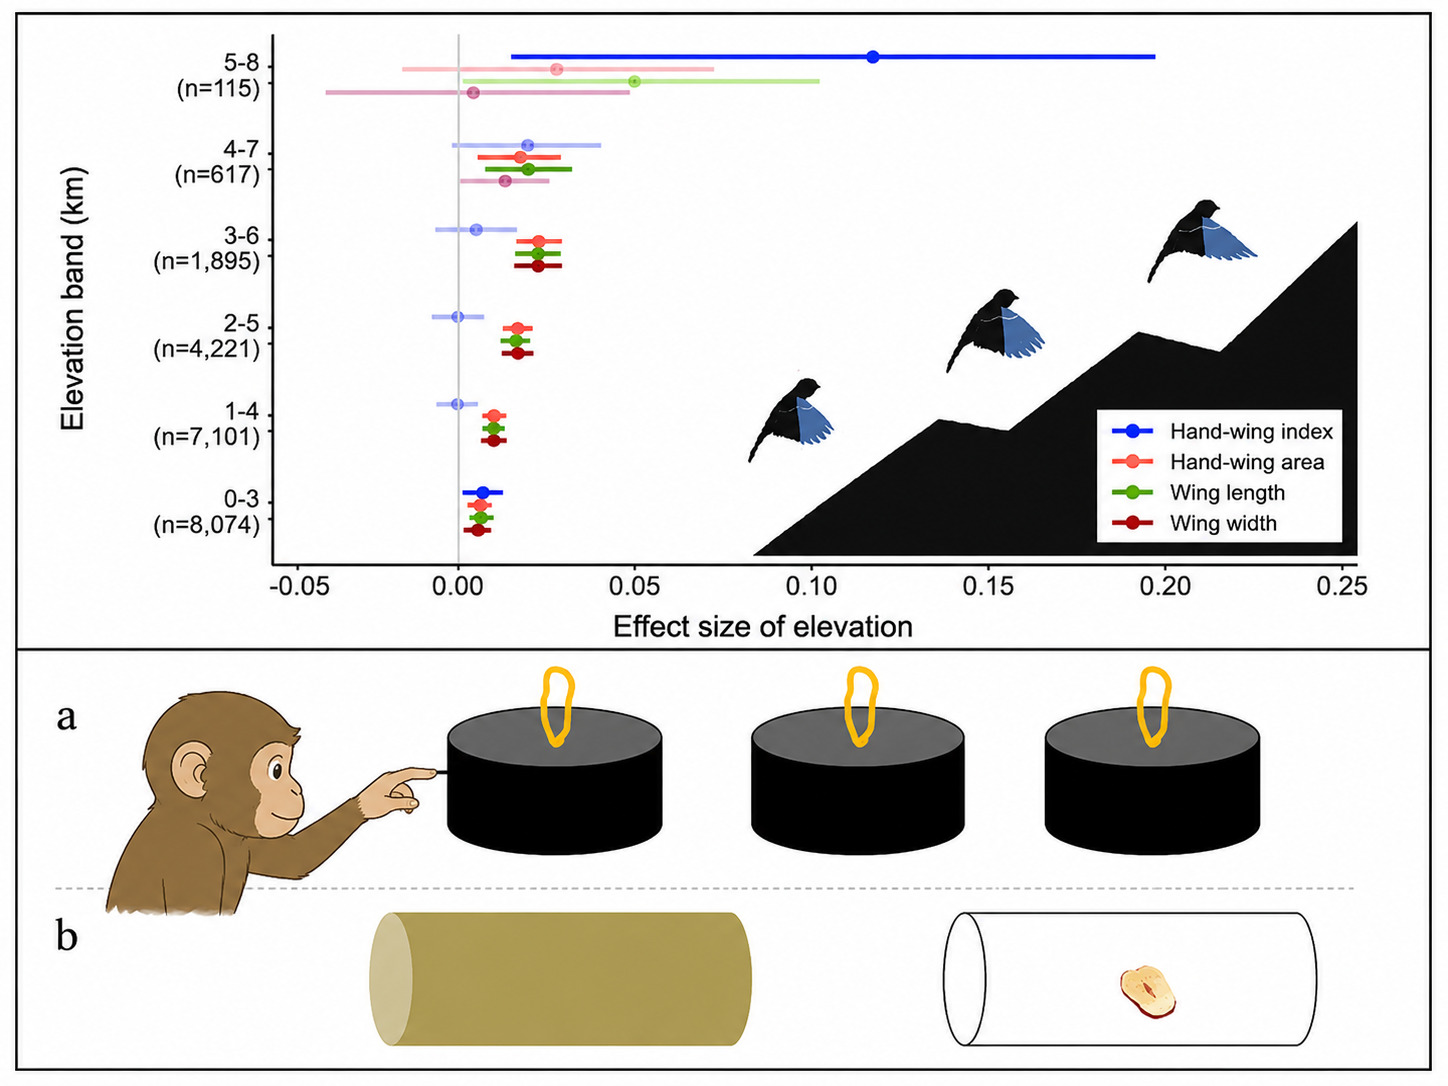
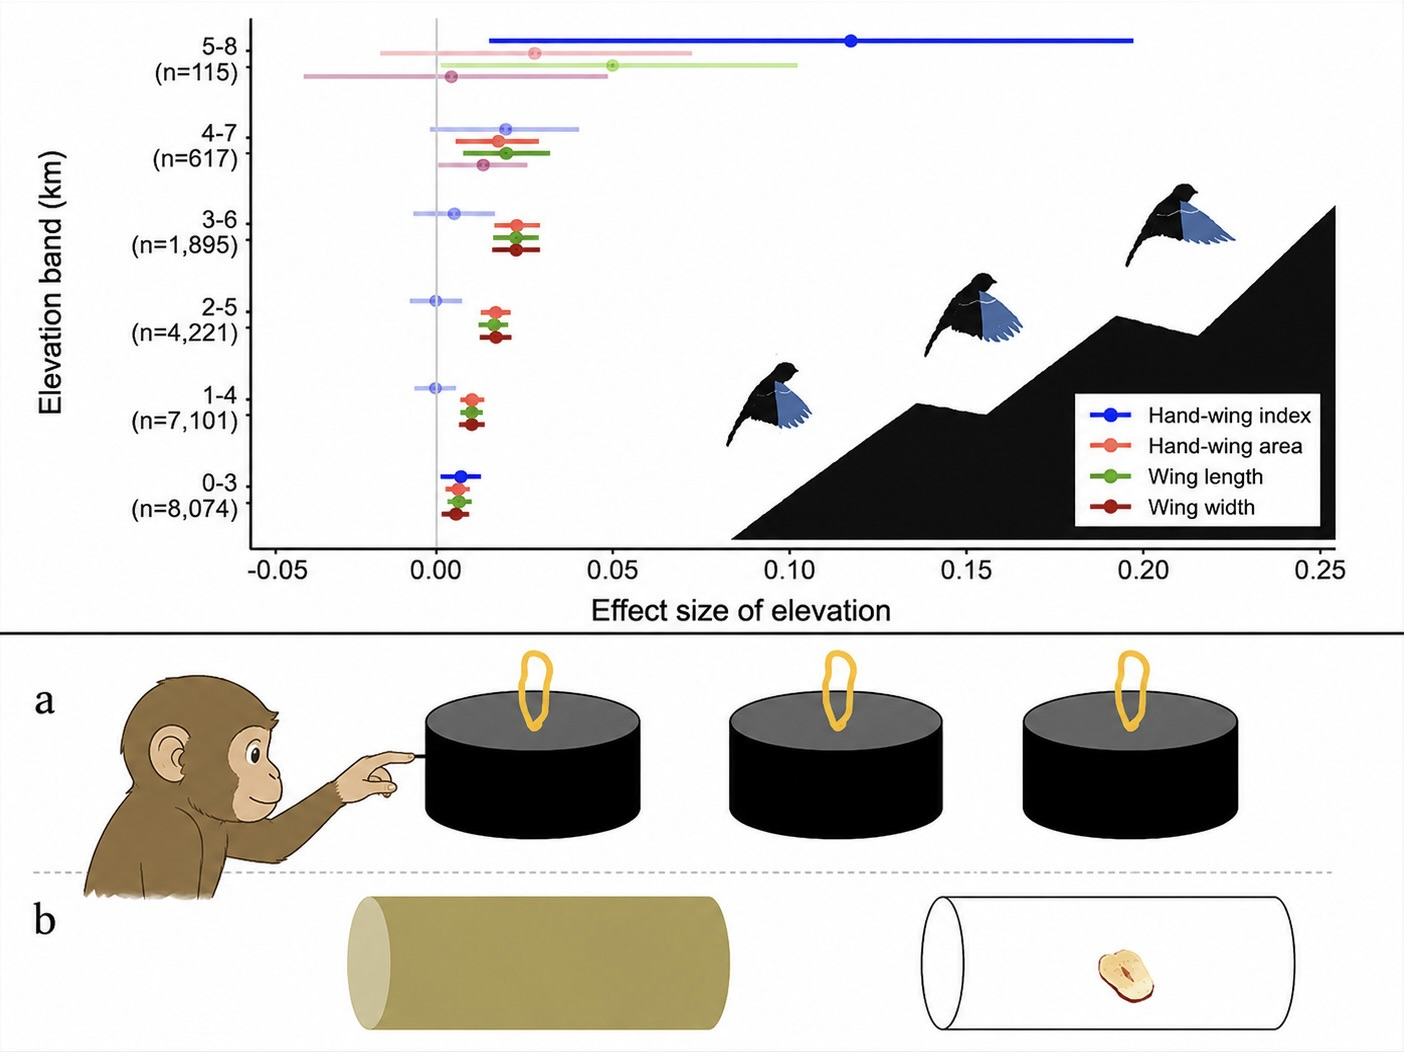
Update

diff --git a/research.html b/research.html
@@ -180,6 +180,16 @@
       padding: 0 2.5rem 6rem;
     }
     .topic-detail.active { display: block; }
+    .back-btn-wrap {
+      position: sticky;
+      top: var(--nav-h);
+      z-index: 50;
+      background: rgba(245,241,235,0.92);
+      backdrop-filter: blur(10px);
+      border-bottom: 0.5px solid var(--border);
+      margin: 0 -2.5rem 2.5rem;
+      padding: 0.75rem 2.5rem;
+    }
     .back-btn {
       display: inline-flex;
       align-items: center;
@@ -189,7 +199,6 @@
       text-transform: uppercase;
       color: var(--muted);
       text-decoration: none;
-      margin-bottom: 2.5rem;
       cursor: pointer;
       background: none;
       border: none;
@@ -266,12 +275,13 @@
     @media (max-width: 640px) {
       nav { padding: 0 1.2rem; }
       .nav-name { font-size: 0.72rem; }
-      .nav-links { gap: 1rem; }
-      .nav-links a { font-size: 0.75rem; }
+      .nav-links { gap: 0.7rem; }
+      .nav-links a { font-size: 0.6rem; }
       .page-header { padding: calc(var(--nav-h) + 2.5rem) 1.2rem 2rem; }
       .page-header h1 { font-size: 2rem; }
       .research-grid { grid-template-columns: 1fr; padding: 2.5rem 1.2rem 4rem; gap: 1.2rem; }
       .topic-detail { padding: 0 1.2rem 4rem; }
+      .back-btn-wrap { margin: 0 -1.2rem 2rem; padding: 0.65rem 1.2rem; }
     }
   </style>
 </head>
@@ -347,7 +357,9 @@
   <!-- TOPIC DETAILS -->
 
   <section class="topic-detail" id="topic-crossscale">
-    <button class="back-btn" onclick="closeTopic()">← Back to Research</button>
+    <div class="back-btn-wrap">
+      <button class="back-btn" onclick="closeTopic()">← Back to Research</button>
+    </div>
     <h2>Cross-Scale Resilience</h2>
     <img class="topic-detail-img" src="images/research_crossscale.jpg" alt="Cross-Scale Resilience">
     <p>My doctoral research centres on a deceptively simple question: what makes ecological systems resilient, and does the answer change depending on the scale at which we look? I am interested in how resilience — the capacity of a system to absorb disturbance and reorganise — manifests differently at the level of individual organisms, populations, and communities.</p>
@@ -362,7 +374,9 @@
   </section>
 
   <section class="topic-detail" id="topic-demography">
-    <button class="back-btn" onclick="closeTopic()">← Back to Research</button>
+    <div class="back-btn-wrap">
+      <button class="back-btn" onclick="closeTopic()">← Back to Research</button>
+    </div>
     <h2>Population Demography</h2>
     <img class="topic-detail-img" src="images/research_demography.jpg" alt="Population Demography">
     <p>Demography is the language in which populations tell their stories. Survival, growth, reproduction — these vital rates, structured by age or stage, determine whether a population grows, shrinks, or persists in the face of environmental change.</p>
@@ -378,7 +392,9 @@
   </section>
 
   <section class="topic-detail" id="topic-evolution">
-    <button class="back-btn" onclick="closeTopic()">← Back to Research</button>
+    <div class="back-btn-wrap">
+      <button class="back-btn" onclick="closeTopic()">← Back to Research</button>
+    </div>
     <h2>Evolutionary History</h2>
     <img class="topic-detail-img" src="images/research_evolution.jpg" alt="Evolutionary History">
     <p>Conservation biology has long grappled with the question of how to prioritise species for protection. Evolutionary distinctiveness — the amount of unique evolutionary history a species represents — has emerged as a compelling criterion, yet most priority frameworks treat it in isolation from how populations are actually faring in the wild.</p>
@@ -393,7 +409,9 @@
   </section>
 
   <section class="topic-detail" id="topic-others">
-    <button class="back-btn" onclick="closeTopic()">← Back to Research</button>
+    <div class="back-btn-wrap">
+      <button class="back-btn" onclick="closeTopic()">← Back to Research</button>
+    </div>
     <h2>Other Interests</h2>
     <img class="topic-detail-img" src="images/research_others.jpg" alt="Other Interests">
     <p>My research path has been deliberately broad. Before settling into macroecology and demography, I worked on projects spanning animal cognition, behavioural ecology, plant population genetics, and the effects of artificial light at night on decomposer communities.</p>
@@ -402,7 +420,7 @@
     <div class="reading-section">
       <p class="reading-label">Recommended Reading</p>
       <ul class="reading-list">
-        <li>Yang, J., Yang, C., <strong>Lin, H. W.</strong>, Lees, A. C., &amp; Tobias, J. A. (2025). Elevational constraints on flight efficiency shape global gradients in avian wing morphology. <em>Current Biology</em>, 35(8), 1890–1900.</li>
+        <li>Yang, J., Yang, C., <strong>Lin, H.</strong>, Lees, A. C., &amp; Tobias, J. A. (2025). Elevational constraints on flight efficiency shape global gradients in avian wing morphology. <em>Current Biology</em>, 35(8), 1890–1900.</li>
         <li>Wang, L., Luo, Y., <strong>Lin, H.</strong>, Xu, N., Gu, Y., Bu, H., ... &amp; Li, Z. (2023). Performance on inhibitory tasks does not relate to handedness in several small groups of Callitrichids. <em>Animal Cognition</em>, 26(2), 415–423.</li>
         <li>Wang, L., Luo, Y., Xu, N., <strong>Lin, H.</strong>, Yu, F., Huang, C., &amp; Li, Z. (2022). Signs of claw asymmetry appear in a homochelate crab. <em>Applied Animal Behaviour Science</em>, 246, 105537.</li>
       </ul>

diff --git a/index.html b/index.html
@@ -422,7 +422,7 @@
       nav { padding: 0 1.2rem; }
       .nav-name { font-size: 0.72rem; }
       .nav-links { gap: 1rem; }
-      .nav-links a { font-size: 0.75rem; }
+      .nav-links a { font-size: 0.6rem; }
     }
   </style>
 </head>
@@ -526,8 +526,8 @@
         <svg viewBox="0 0 24 24" xmlns="http://www.w3.org/2000/svg"><path d="M12 0C5.372 0 0 5.372 0 12s5.372 12 12 12 12-5.372 12-12S18.628 0 12 0zM7.369 4.378c.525 0 .947.431.947.947s-.422.947-.947.947a.95.95 0 0 1-.947-.947c0-.525.422-.947.947-.947zm-.722 3.038h1.444v10.041H6.647V7.416zm3.562 0h3.9c3.712 0 5.344 2.653 5.344 5.025 0 2.578-2.016 5.016-5.325 5.016h-3.919V7.416zm1.444 1.303v7.444h2.297c3.272 0 3.872-2.412 3.872-3.722 0-2.016-1.284-3.722-3.872-3.722h-2.297z"/></svg>
       </a>
       <!-- ResearchGate -->
-      <a class="social-icon-link" href="https://www.researchgate.net/profile/Hung-Wei-Lin-4" target="_blank" rel="noopener" title="ResearchGate" style="overflow:hidden;padding:0;">
-        <img src="images/rg_logo.png" alt="ResearchGate" style="width:36px;height:36px;object-fit:cover;display:block;">
+      <a class="social-icon-link" href="https://www.researchgate.net/profile/Hung-Wei-Lin-4" target="_blank" rel="noopener" title="ResearchGate">
+        <svg viewBox="0 0 24 24" xmlns="http://www.w3.org/2000/svg"><text y="17" font-size="13" font-family="Georgia,serif" font-weight="bold" fill="currentColor">RG</text></svg>
       </a>
       <!-- GitHub -->
       <a class="social-icon-link" href="https://github.com/homewaylin666" target="_blank" rel="noopener" title="GitHub">

diff --git a/cv.html b/cv.html
@@ -204,7 +204,7 @@
     @media (max-width: 640px) {
       nav { padding: 0 1.2rem; }
       .nav-name { font-size: 0.72rem; }
-      .nav-links { gap: 1.2rem; }
+      .nav-links { gap: 0.9rem; }
       .page-header { padding: calc(var(--nav-h) + 2.5rem) 1.2rem 2rem; }
       .page-header h1 { font-size: 2rem; }
       .cv-body { grid-template-columns: 1fr; padding: 0 1.2rem 4rem; }